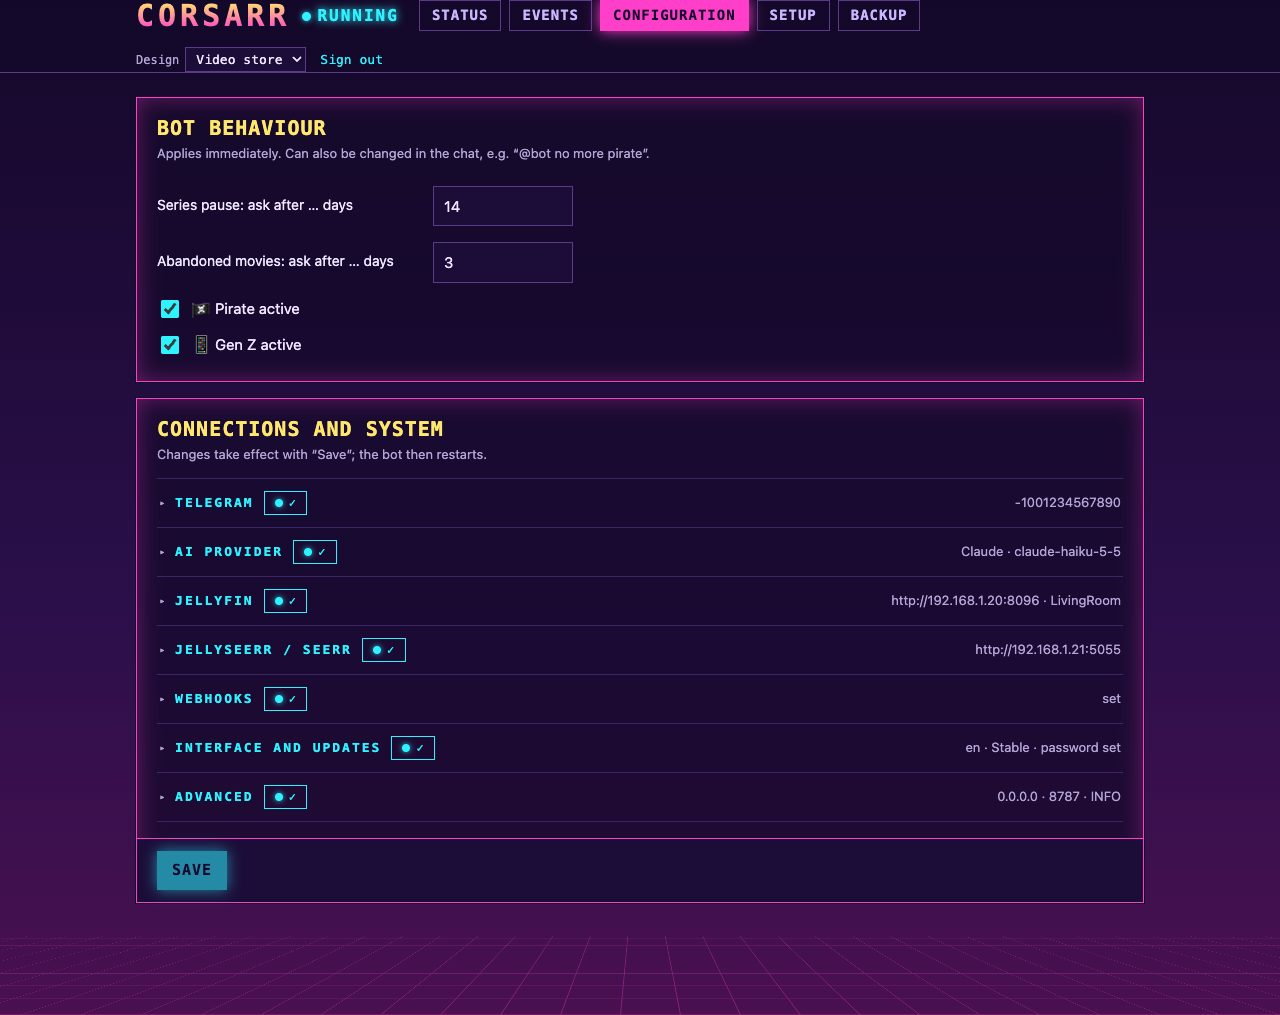
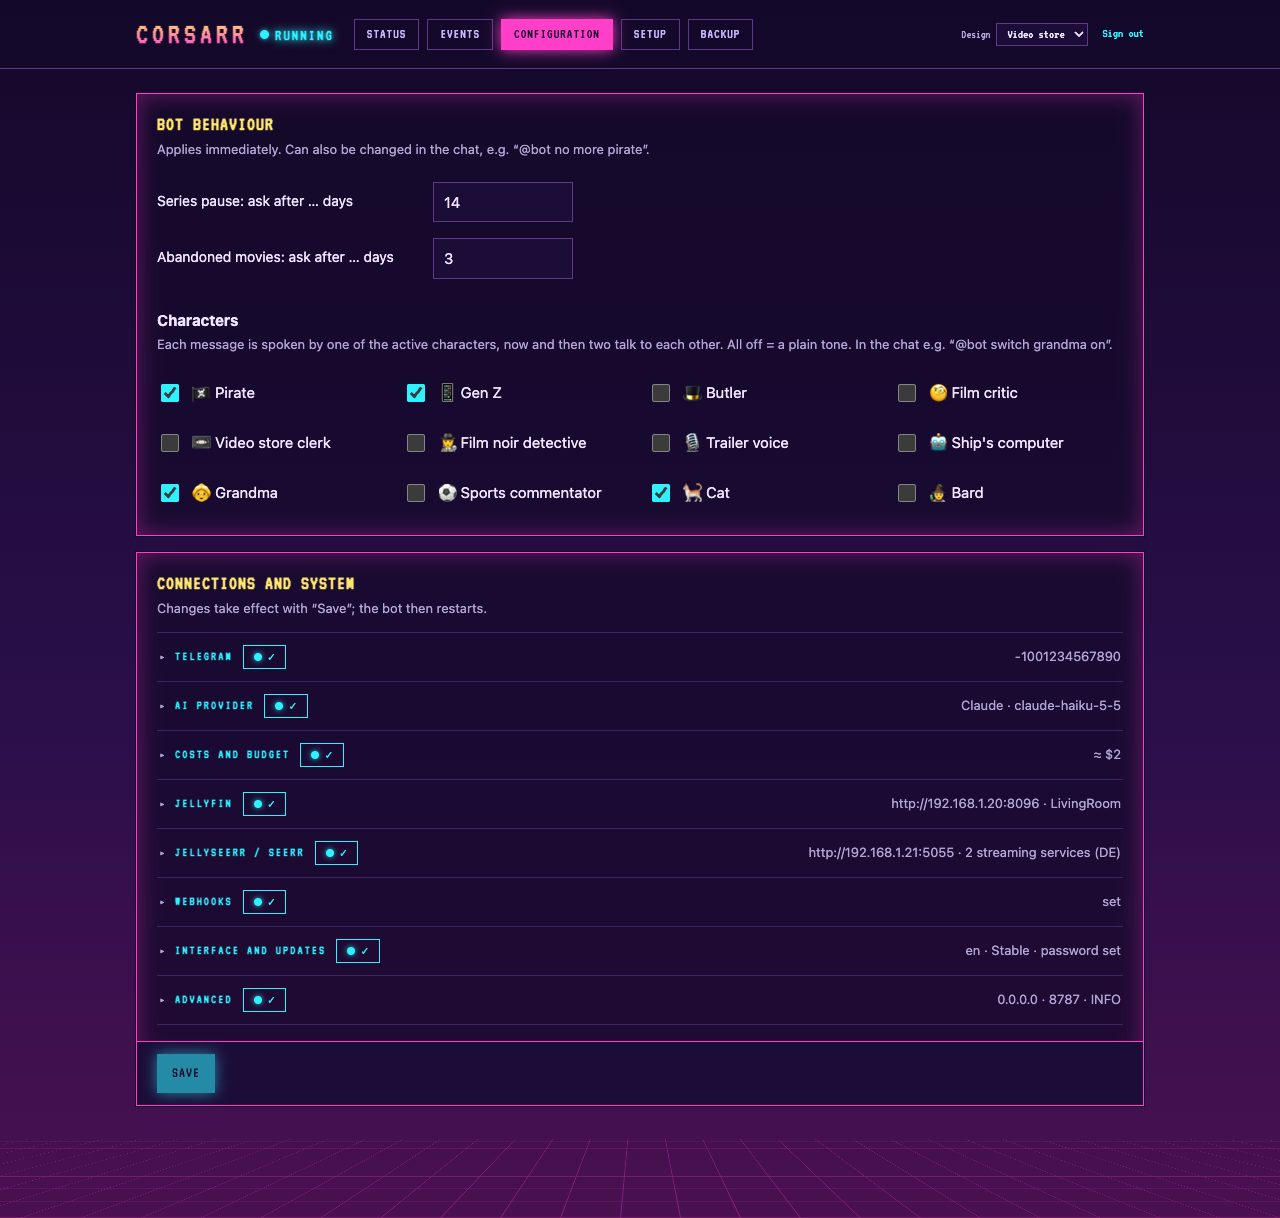
Docs: new screenshots with usage card, characters, restart divider and streaming services

Changed region(s): [[0.0938, 0.2443, 0.9062, 0.9163], [0.0938, 0.0, 0.9062, 0.2443], [0.625, 0.4887, 0.875, 0.7025]]

diff --git a/docs/Configuration.md b/docs/Configuration.md
@@ -89,6 +89,8 @@ Jellyseerr has been merged into Seerr; Seerr and Overseerr use the same API and 
 | `STREAMING_PROVIDERS` | – | Streaming services you subscribe to, as comma-separated TMDB provider ids (e.g. `8,337` for Netflix and Disney+). In the web interface a checklist of the services in your country, or in the chat: `@bot we have Netflix and Disney+`, `@bot we cancelled Prime`. Cards for new titles then show which of them include the title ([Usage](Usage.md#the-suggestion-card)). Empty = off. Applies immediately. |
 | `STREAMING_REGION` | – | Country whose streaming catalogues count, as a two-letter code (`DE`, `US`, …). Empty = derived from `LANGUAGE` (`de` → `DE`, otherwise `US`). Applies immediately. |
 
+![Streaming country and services in the Jellyseerr / Seerr section](images/streaming.jpg)
+
 ### Webhooks
 
 | Name | Required | Meaning |
